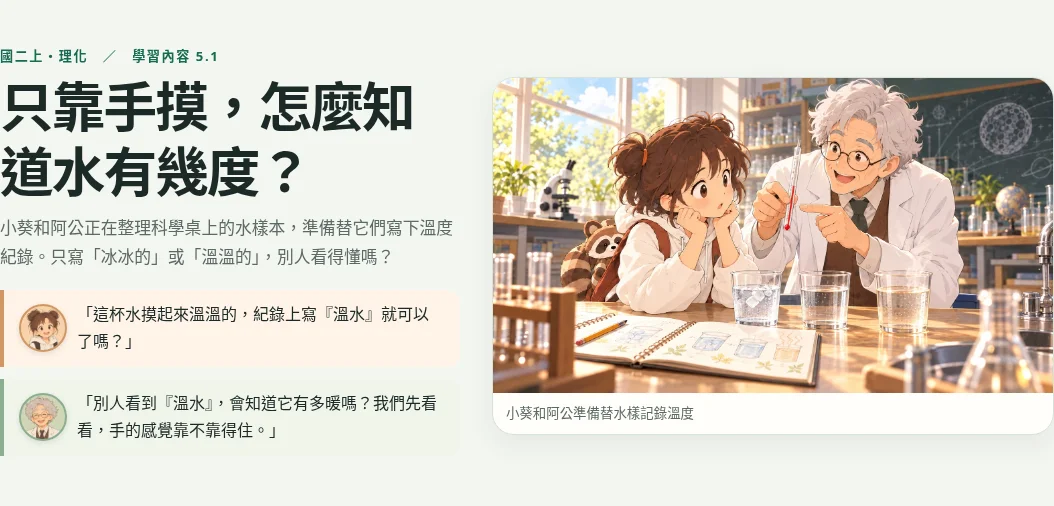
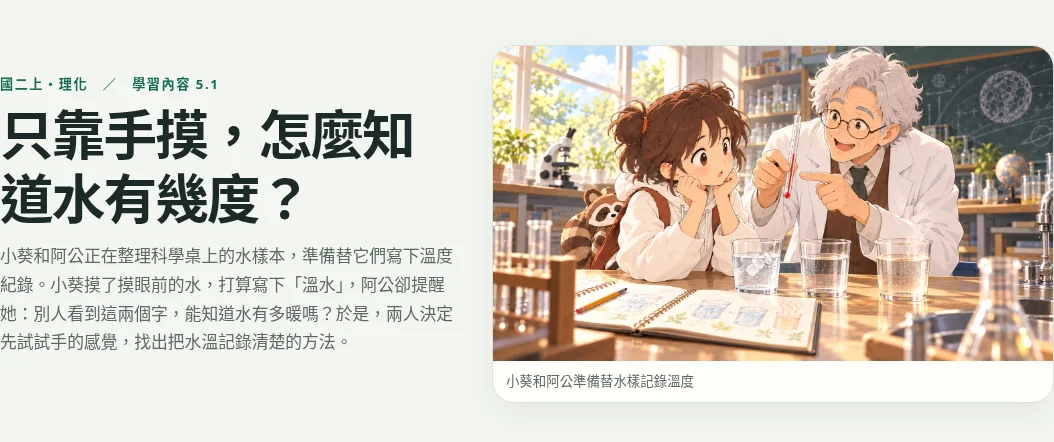
將 5.1 開場對話融入敘事並移除對話框

diff --git a/units/5/parts/5.1/index.html b/units/5/parts/5.1/index.html
@@ -51,8 +51,7 @@
       </div></nav>
       <div class="cards">
     <div class="hero">
-      <div class="hero-copy"><div class="eyebrow">國二上・理化　／　學習內容 5.1</div><h1>只靠手摸，怎麼知道水有幾度？</h1><p>小葵和阿公正在整理科學桌上的水樣本，準備替它們寫下溫度紀錄。只寫「冰冰的」或「溫溫的」，別人看得懂嗎？</p>
-        <div class="dialogue dialogue--xiaokui hero-dialogue"><span class="speaker" aria-hidden="true"></span><p>「這杯水摸起來溫溫的，紀錄上寫『溫水』就可以了嗎？」</p></div><div class="dialogue"><span class="speaker" aria-hidden="true"></span><p>「別人看到『溫水』，會知道它有多暖嗎？我們先看看，手的感覺靠不靠得住。」</p></div>
+      <div class="hero-copy"><div class="eyebrow">國二上・理化　／　學習內容 5.1</div><h1>只靠手摸，怎麼知道水有幾度？</h1><p>小葵和阿公正在整理科學桌上的水樣本，準備替它們寫下溫度紀錄。小葵摸了摸眼前的水，打算寫下「溫水」，阿公卻提醒她：別人看到這兩個字，能知道水有多暖嗎？於是，兩人決定先試試手的感覺，找出把水溫記錄清楚的方法。</p>
       </div>
       <figure class="hero-art"><img src="assets/temperature-story-opening.webp" alt="白髮、戴圓眼鏡的阿公和小葵在科學桌前觀察液體溫度計，桌上有三杯不同溫度的水與實驗紀錄本。"><figcaption class="hero-caption">小葵和阿公準備替水樣記錄溫度</figcaption></figure>
     </div>

diff --git a/docs/reviews/unit-5.1-story/review.md b/docs/reviews/unit-5.1-story/review.md
@@ -22,3 +22,8 @@
 狀態仍為第四階段待使用者檢視，不代表完整單元最終核可。
 
 已檢視桌機開場與手機開場、第三區及小測文案換行；畫面保存於同目錄 `opening-desktop.webp`、`opening-mobile.webp`、`scale-mobile.webp`、`quiz-mobile.webp`。
+
+
+## 開場敘事形式修正
+
+使用者澄清頁首開場不放角色對話框。已將原本兩句對話的想法融入開場單段敘事：小葵想記下「溫水」，阿公提醒這不足以讓別人知道冷熱程度，兩人先探索手感。移除開場兩個對話框，保留標題、插圖及各學習區塊的前後對話。HTML 差異只在這段敘事與對話框，其他內容、JavaScript、CSS 及操作均未修改；未重跑功能測試。開場桌機／手機截圖已更新。
